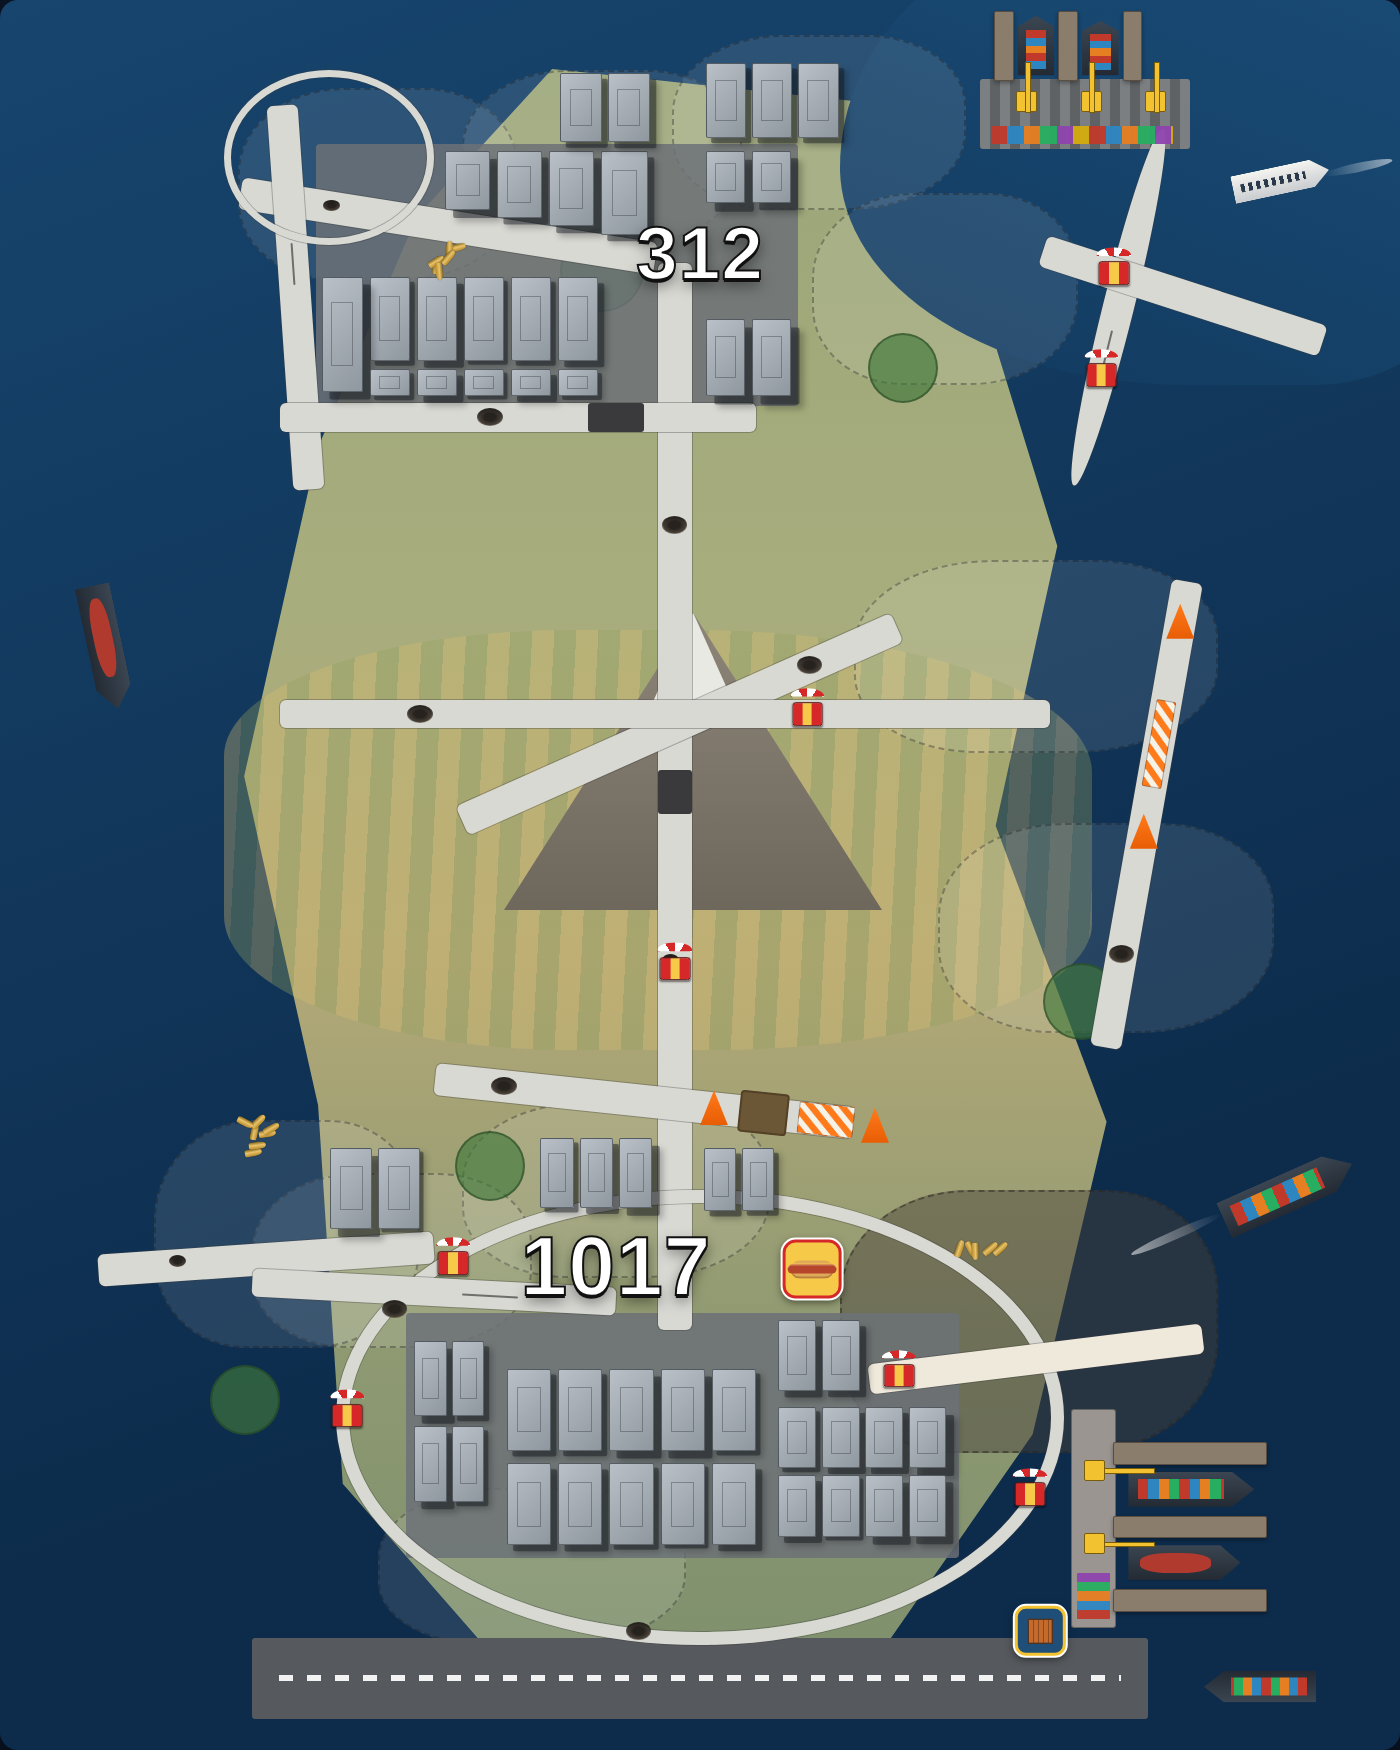
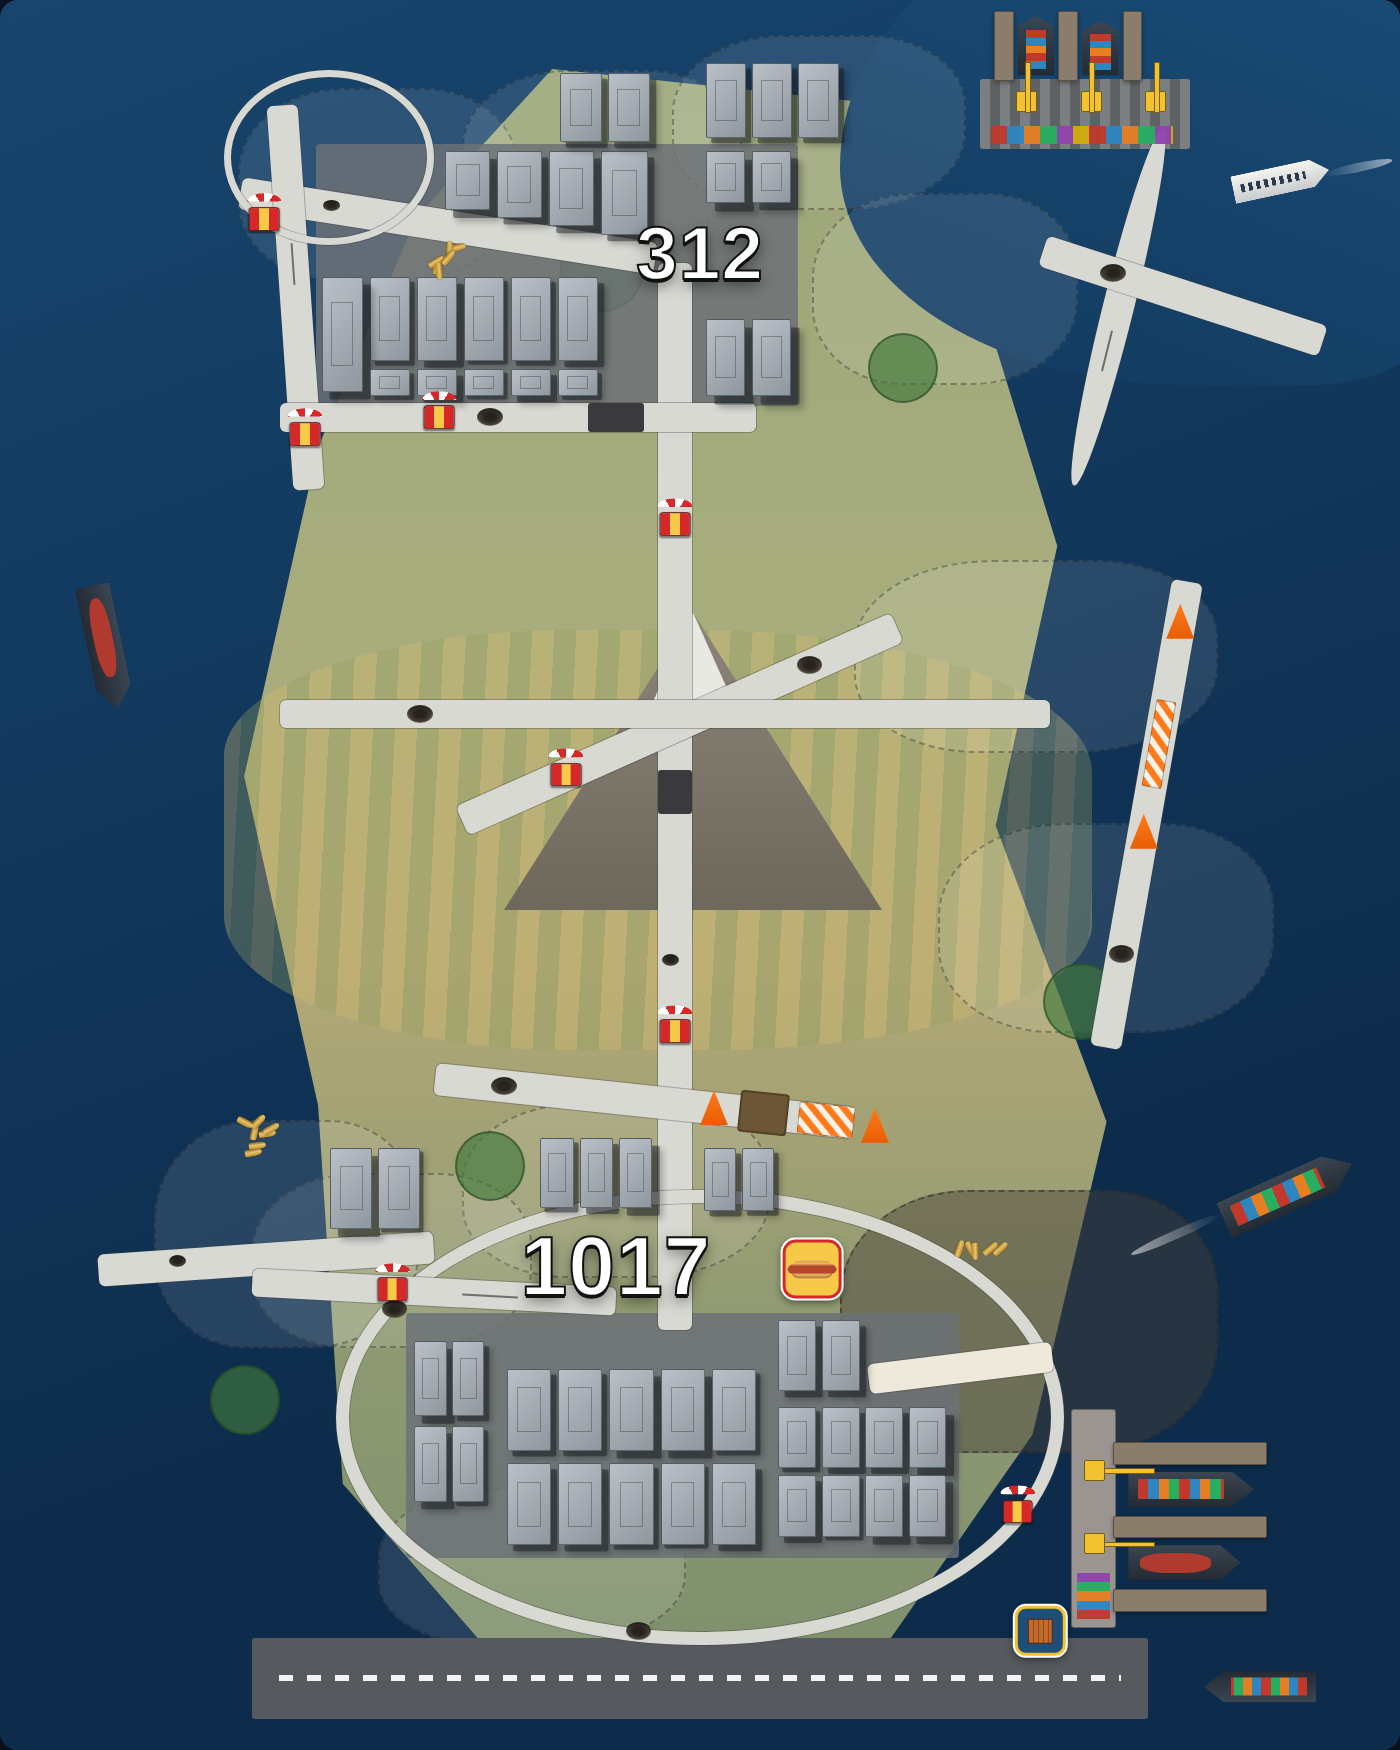
Shorten Highfield Park Drive to end at the shore
It used to run out over the east bay above the 1017 Harbor; it now stops
at the coastline. The random hot dog carts use the shorter road too.

Claude-Session: https://claude.ai/code/session_01FagBtygwPmHUod4bPZTnD1

diff --git a/map-detail-glizzys-2-go.js b/map-detail-glizzys-2-go.js
@@ -20,7 +20,7 @@
         { line: [31, 61.64, 61, 64.16] },        // Red Clay Expressway
         { line: [7, 72.57, 31, 71.23] },         // Westside Run
         { line: [18, 73.25, 44, 74.35] },        // Peachline Road
-        { line: [62, 78.83, 86, 76.47] },        // Highfield Park Drive
+        { line: [62, 78.83, 75.2, 77.53] },      // Highfield Park Drive, to the shore
         { arc: [50, 81, 25.2, 12.35, 0, 360] },  // The Perimeter
         { arc: [23.5, 9, 7.05, 4.64, 0, 360] },  // Knot Loop
     ];
